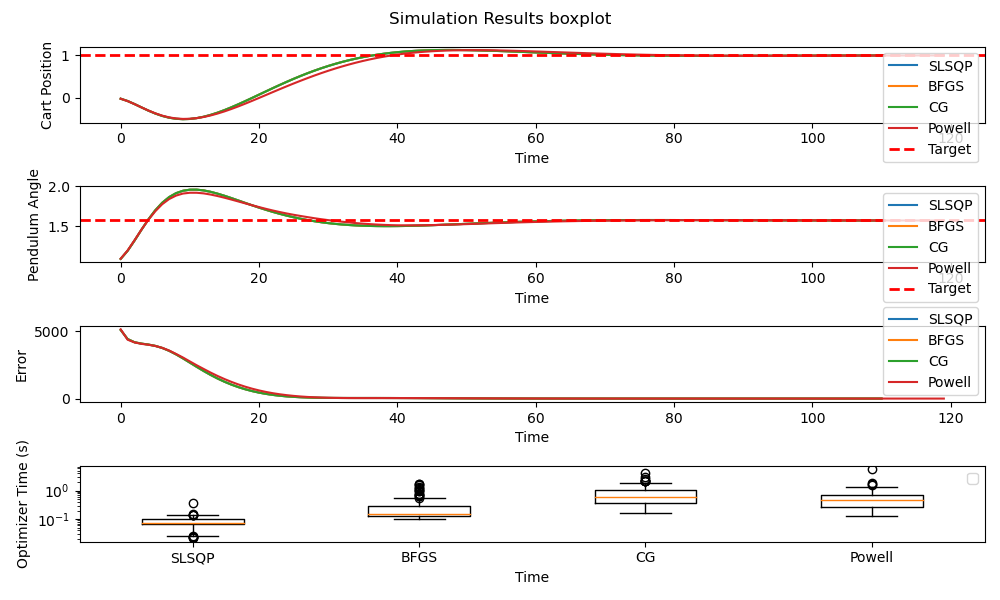
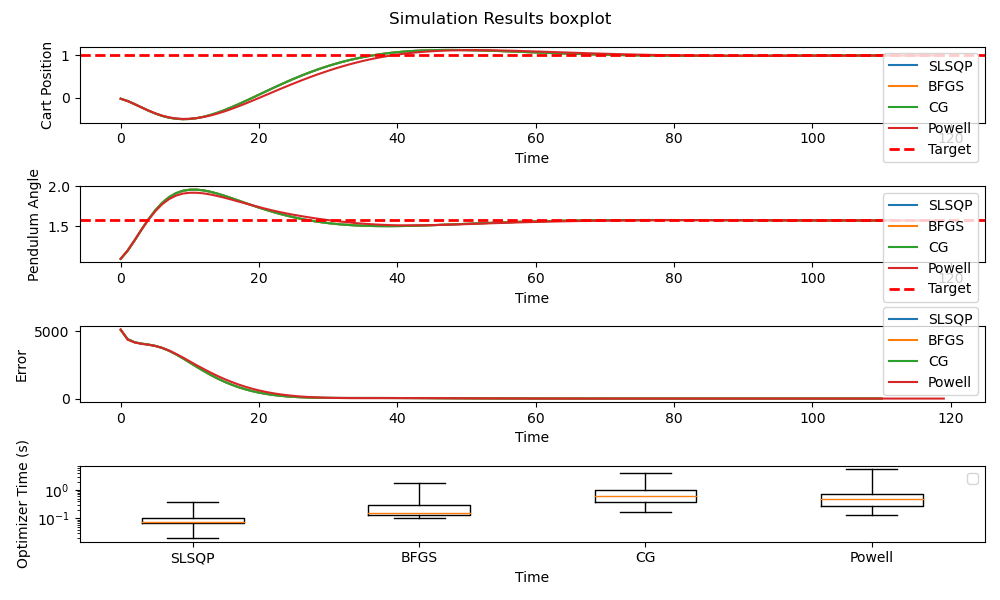
add timing saving

diff --git a/experiment.py b/experiment.py
@@ -158,6 +158,8 @@ def plot_results(results, title):
     fig, axs = plt.subplots(4, 1, figsize=(10, 6))
     fig.suptitle(title)
     times = []
+    f = open("results.txt", "w")
+    
     for solver_type in results:
         state_logs, error_logs, time_logs, goal_x, goal_theta, sim_iter = results[solver_type]
         
@@ -181,6 +183,11 @@ def plot_results(results, title):
         axs[2].set_ylabel('Error')
 
         times.append(time_logs)
+        time_msg = f'{solver_type} --- Mean: {np.mean(time_logs):.2f}, Max: {np.max(time_logs):.2f}, Min: {np.min(time_logs):.2f} \n'
+        f.write(time_msg)
+        print(time_msg)
+
+    f.close()
 
     # Time
     axs[3].boxplot(times, labels=results.keys(), showfliers = False, whis = (0, 100))

diff --git a/casadi/casadi_experiment.py b/casadi/casadi_experiment.py
@@ -169,6 +169,8 @@ def plot_results(results, title):
     fig, axs = plt.subplots(4, 1, figsize=(10, 6))
     fig.suptitle(title)
     times = []
+    f = open("results.txt", "w")
+
     for solver_type in results:
         state_logs, error_logs, time_logs, goal_x, goal_theta, sim_iter = results[solver_type]
         
@@ -192,6 +194,11 @@ def plot_results(results, title):
         axs[2].set_ylabel('Error')
 
         times.append(time_logs)
+        time_msg = f'{solver_type} --- Mean: {np.mean(time_logs):.2f}, Max: {np.max(time_logs):.2f}, Min: {np.min(time_logs):.2f} \n'
+        f.write(time_msg)
+        print(time_msg)
+
+    f.close()
 
     # Time
     axs[3].boxplot(times, labels=results.keys(), showfliers = False, whis = (0, 100))
